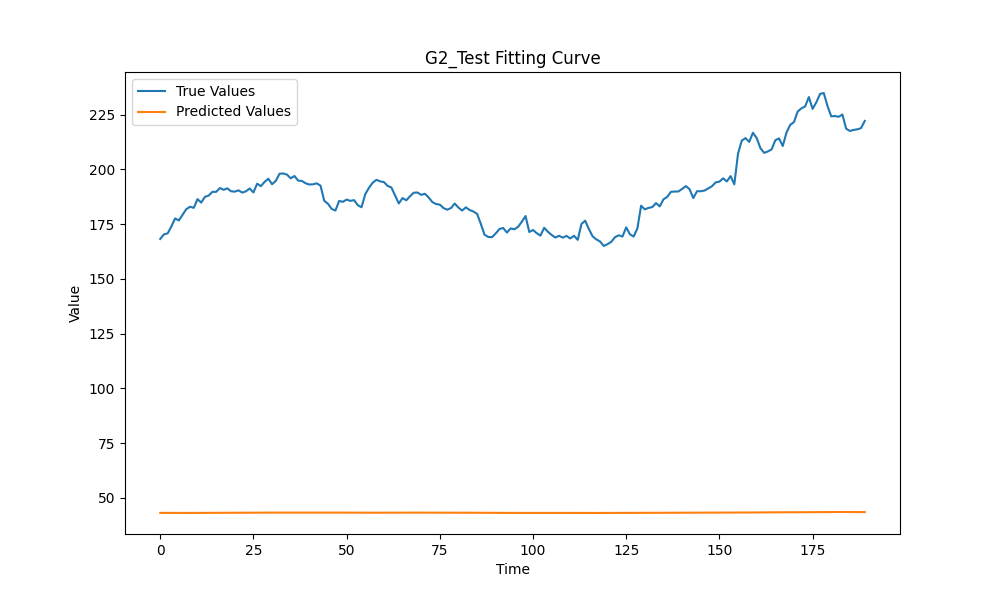
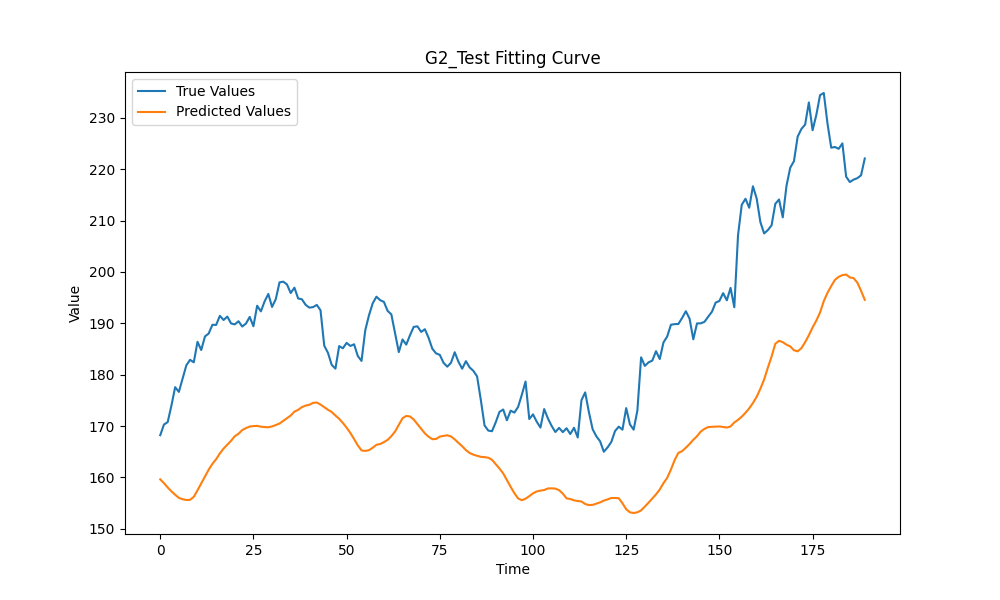
updated test epo1024, patience 50, lr 5e-5, figures

diff --git a/run_multi_gan.py b/run_multi_gan.py
@@ -78,8 +78,8 @@ if __name__ == "__main__":
     parser.add_argument('--distill', type=bool, help="Whether to do distillation", default=True)
     parser.add_argument('--device', type=list, help="Device sets", default=[0])
 
-    parser.add_argument('--num_epochs', type=int, help="epoch", default=2)
-    parser.add_argument('--lr', type=int, help="initial learning rate", default=2e-4)
+    parser.add_argument('--num_epochs', type=int, help="epoch", default=1024)
+    parser.add_argument('--lr', type=int, help="initial learning rate", default=5e-5)
     parser.add_argument('--batch_size', type=int, help="Batch size for training", default=64)
     parser.add_argument('--train_split', type=float, help="Train-test split ratio", default=0.8)
     parser.add_argument('--random_seed', type=int, help="Random seed for reproducibility", default=3407)
